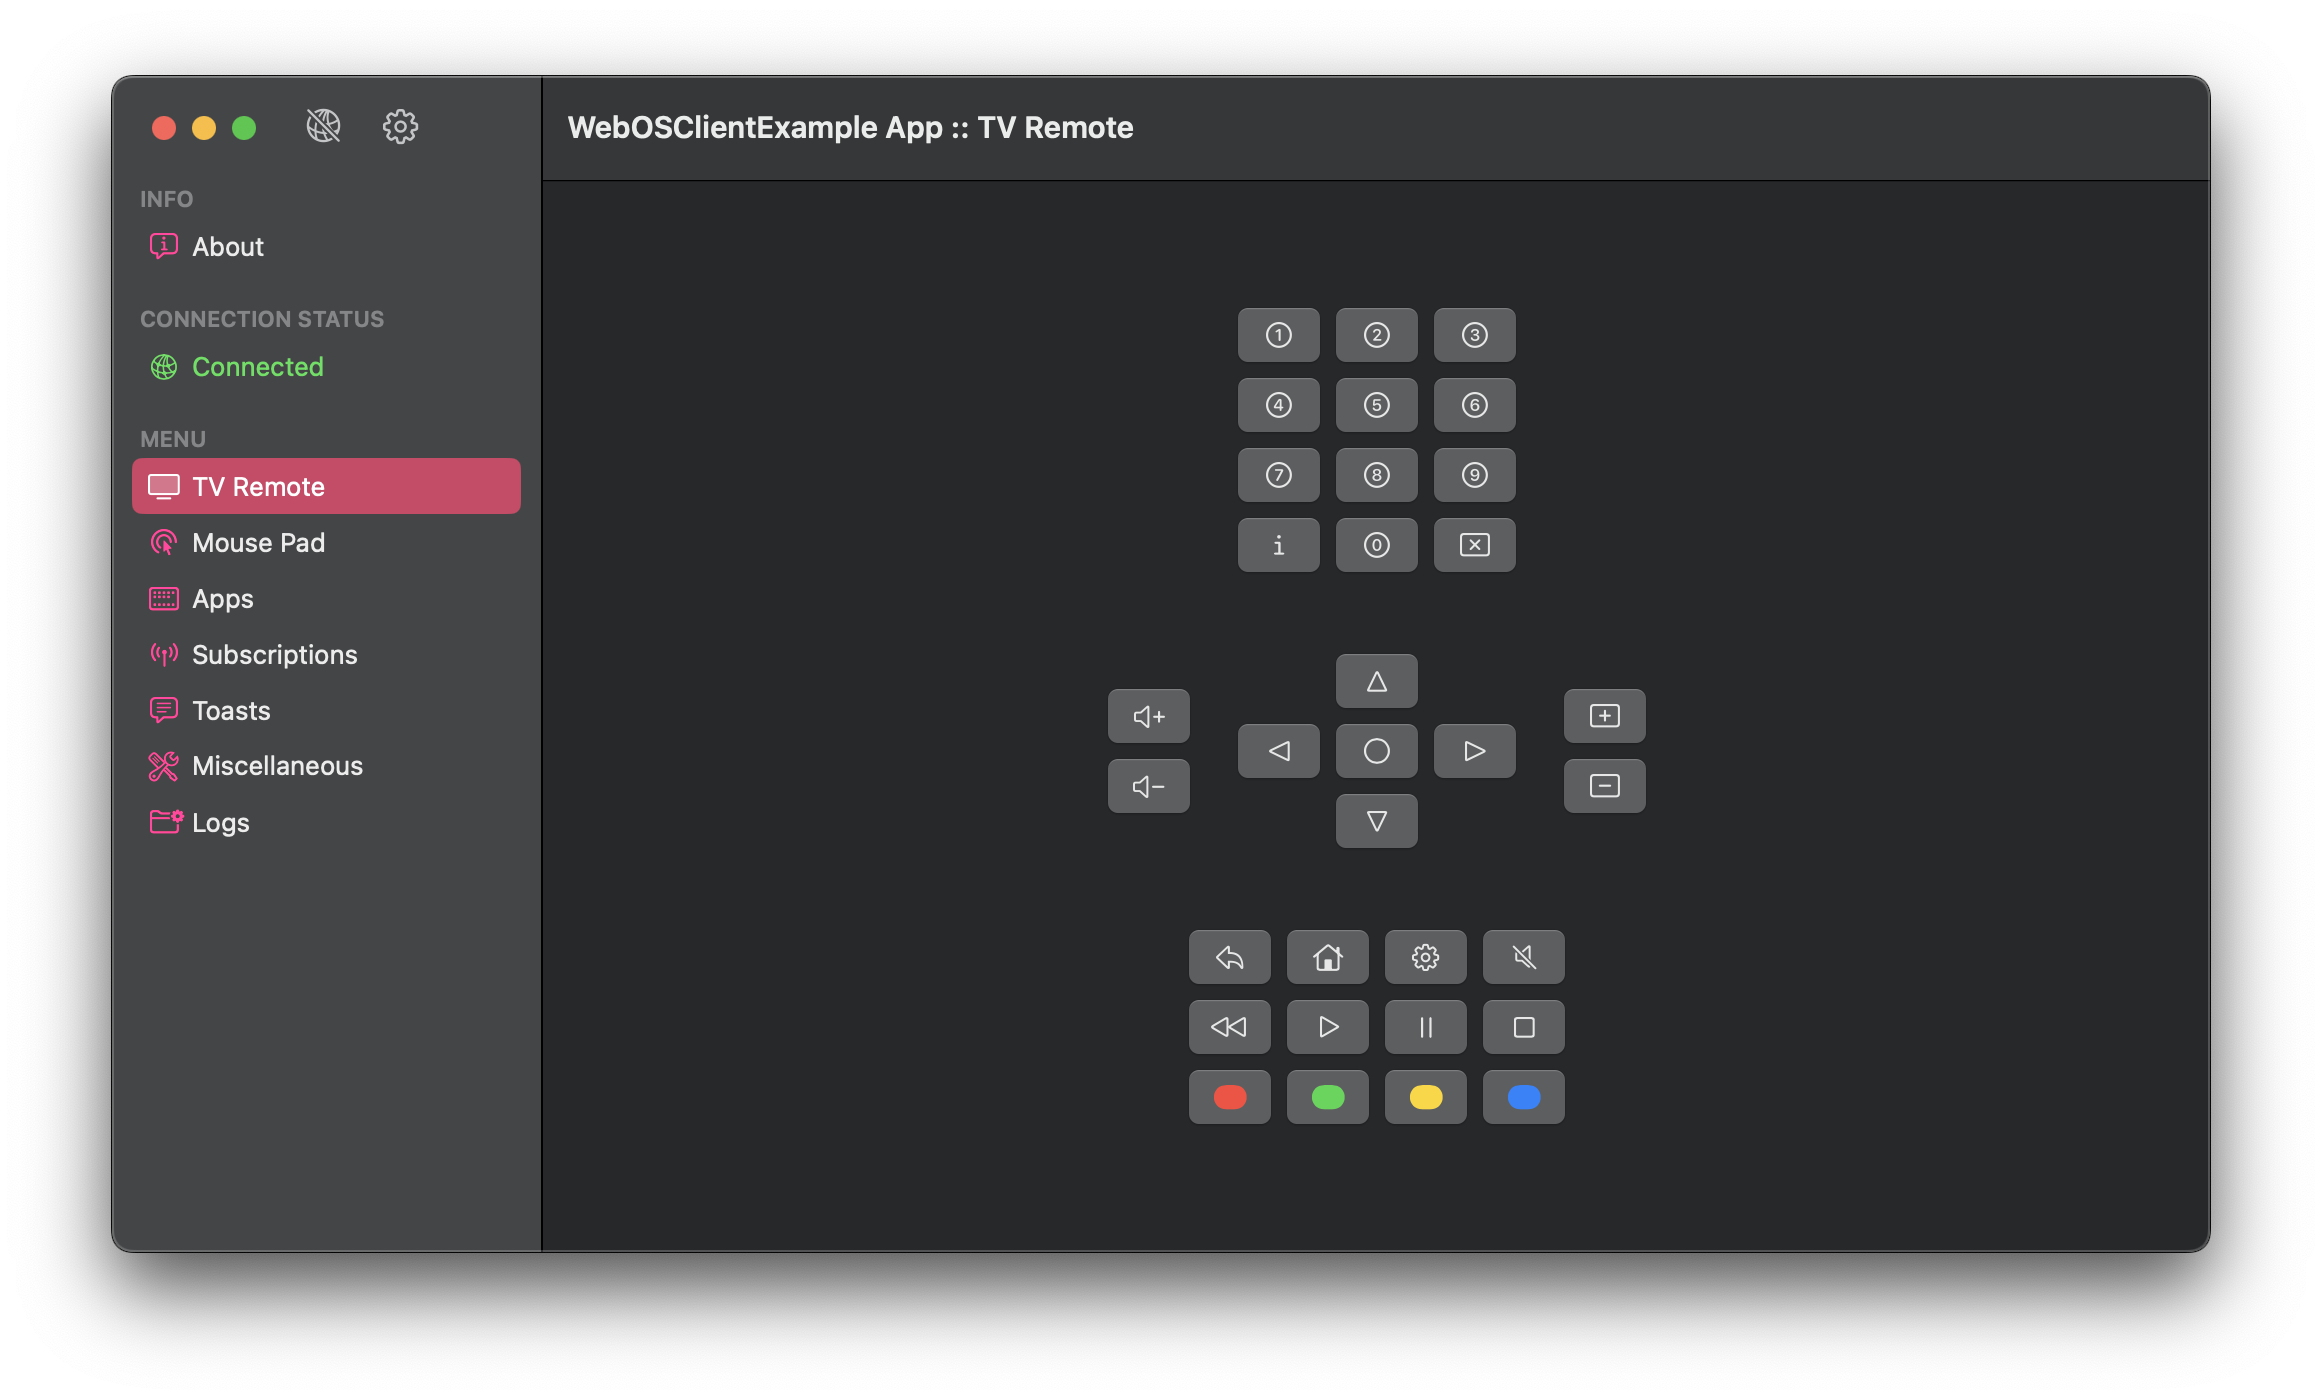
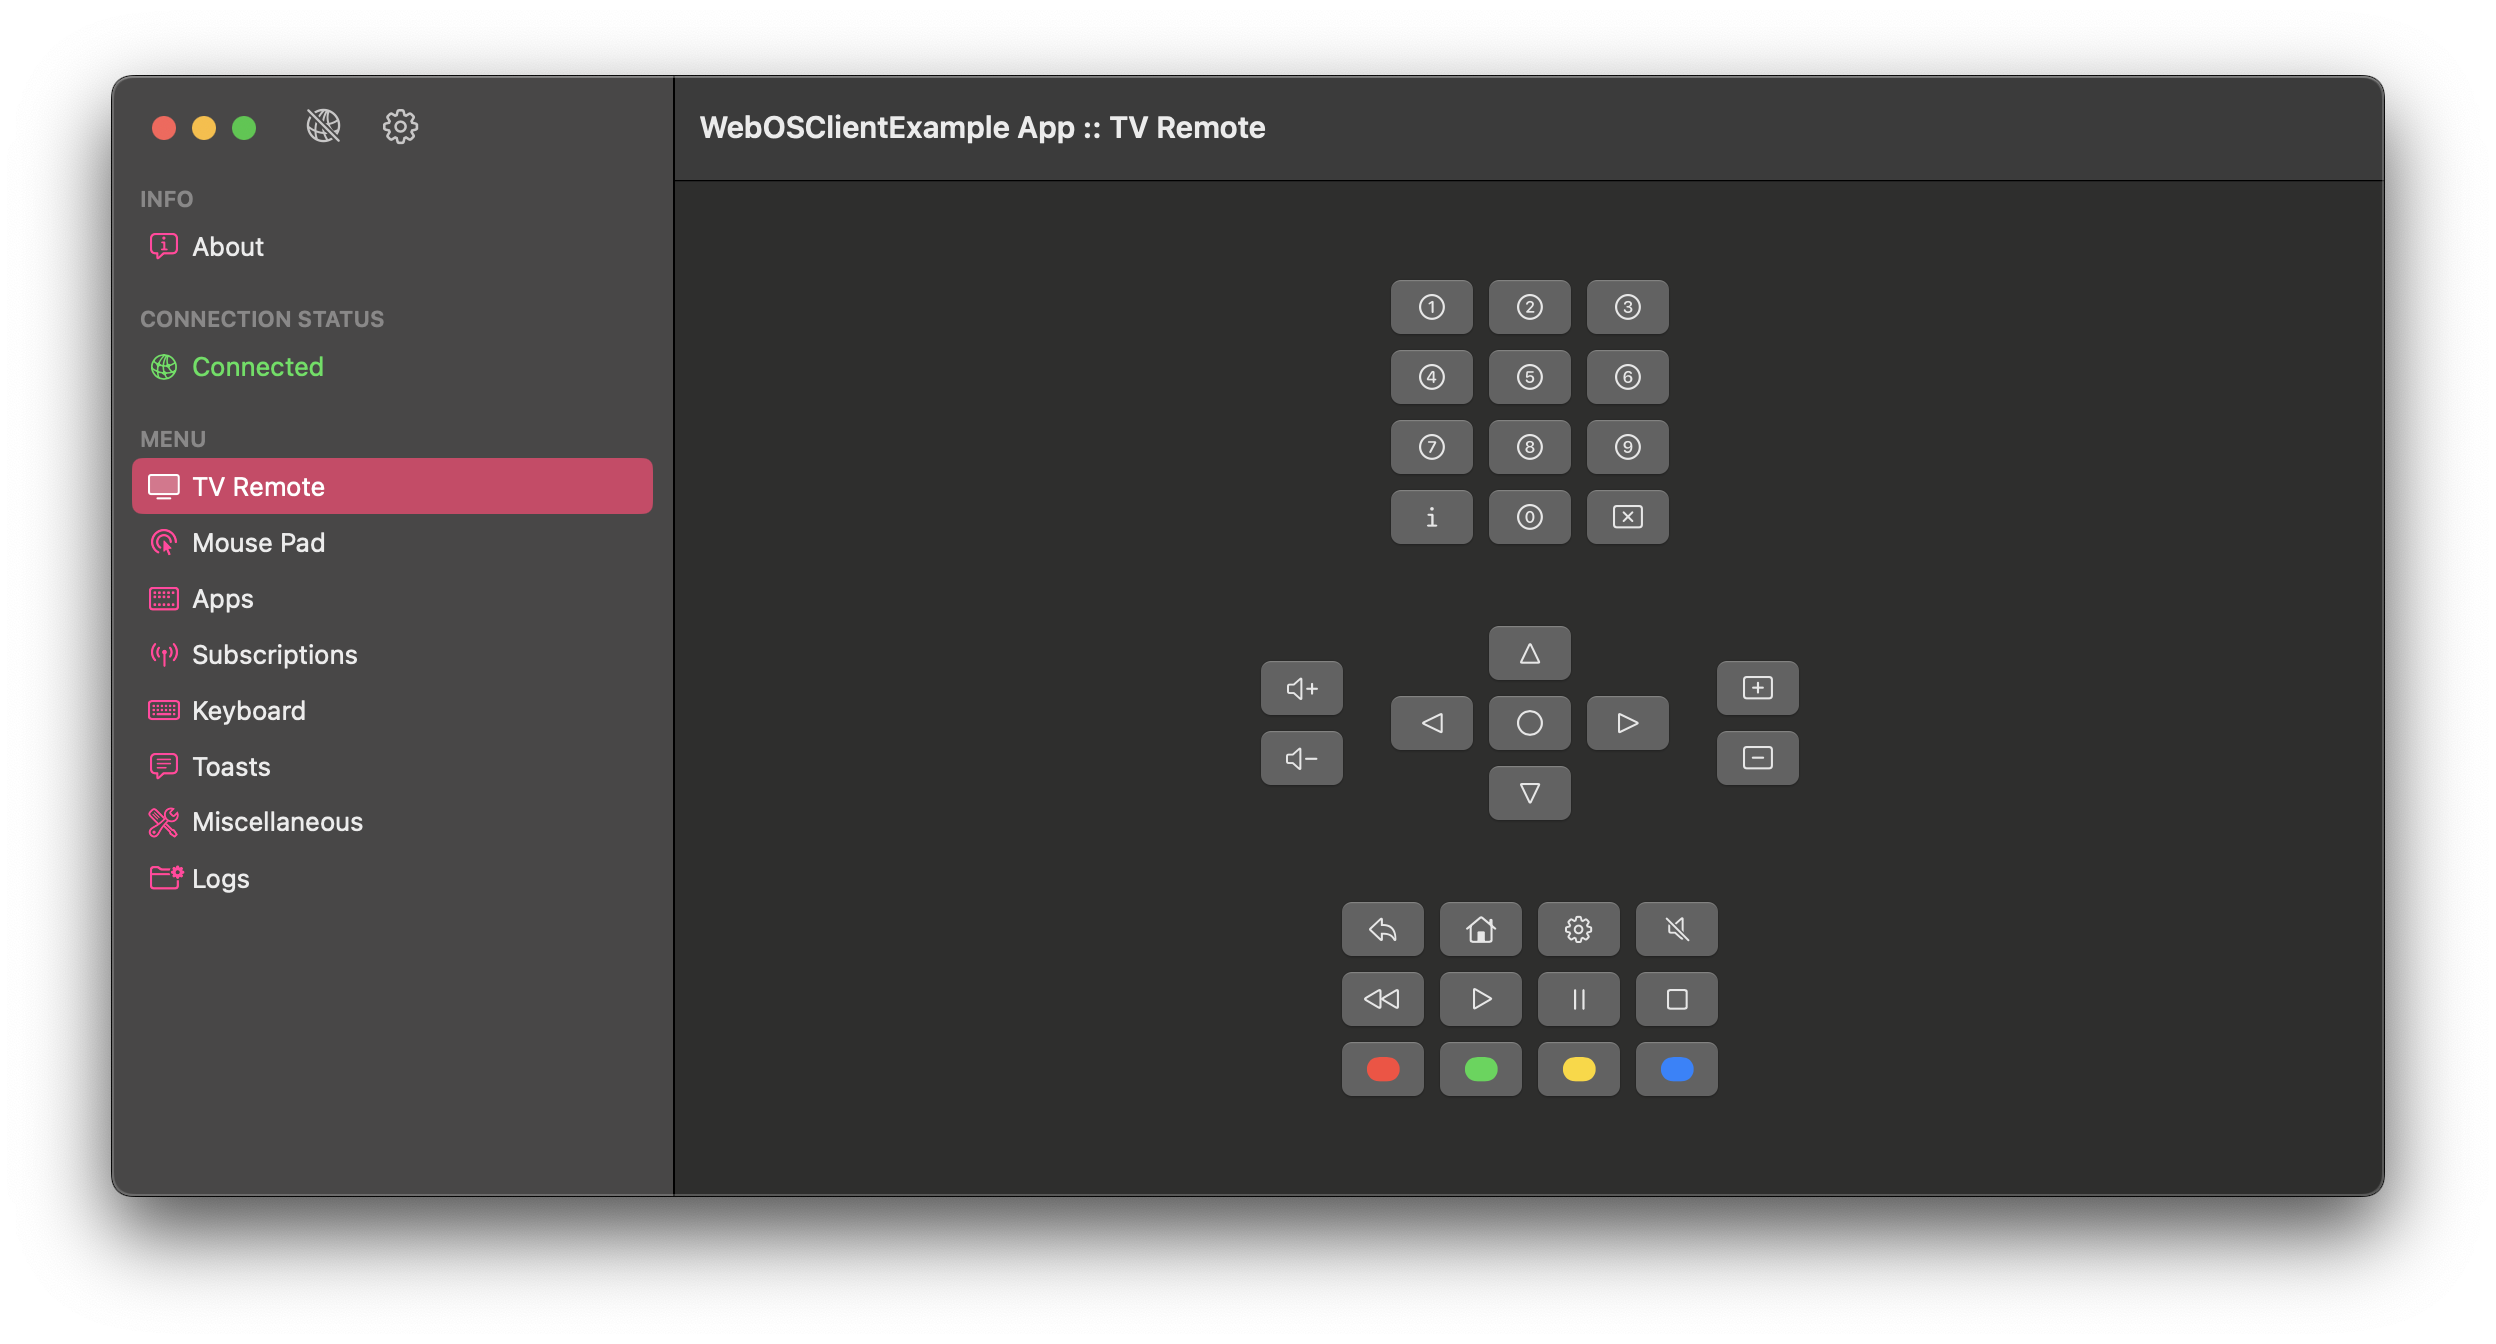
Release 1.4.0.

diff --git a/README.md b/README.md
@@ -43,6 +43,11 @@ pod 'WebOSClient'
 
 ## Version History
 
+### 1.4.0. New virtual keyboard methods & bug fixes.
+#### Features
+* Bug fix in insertText method.
+* Added registerRemoteKeyboard method allowing subscriptions to virtual keyboard.
+
 ### 1.3.0. Minor improvements.
 #### Features
 * Make some of the internal properties public for convenience.
